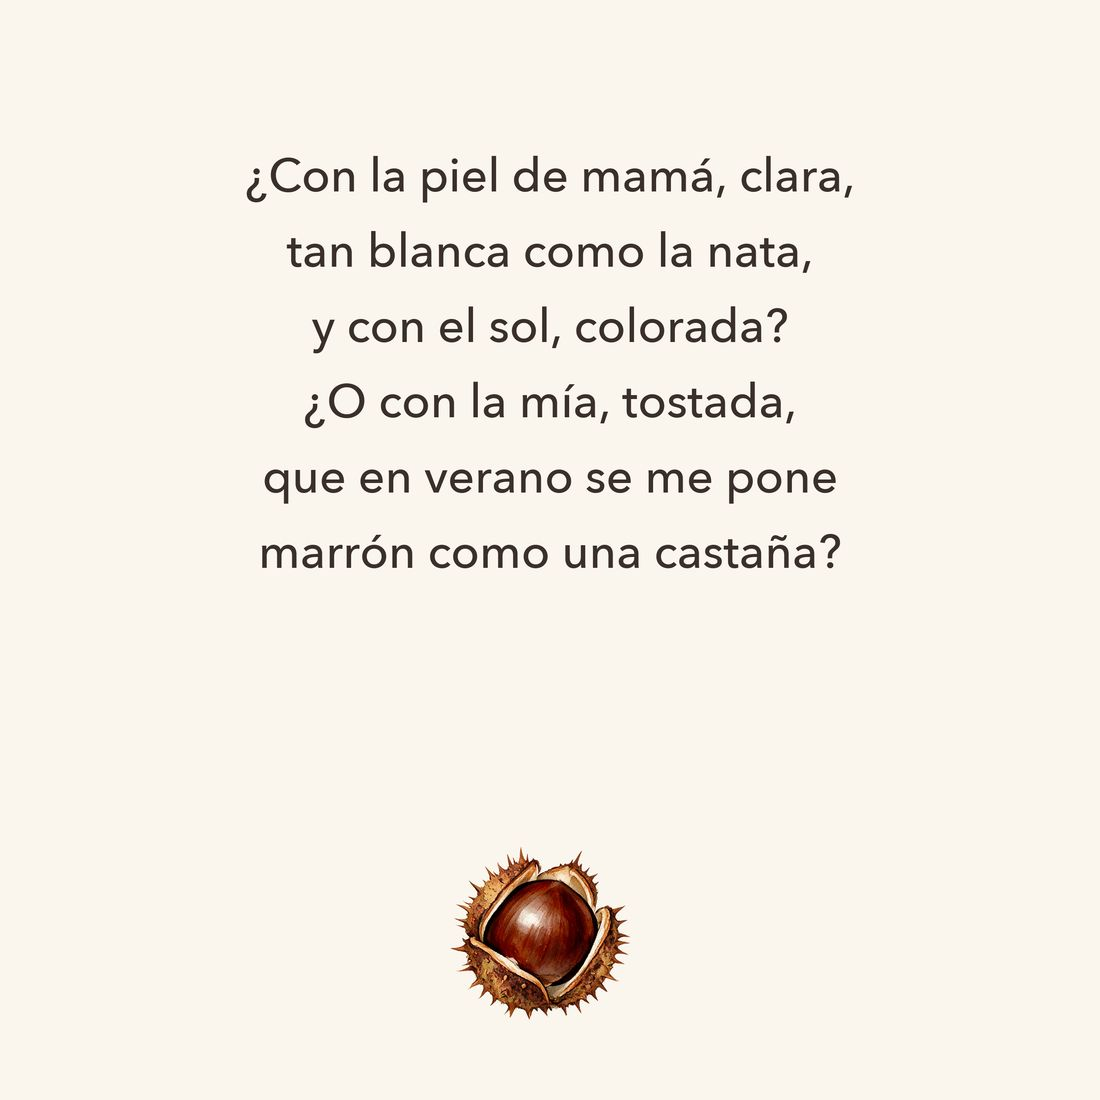
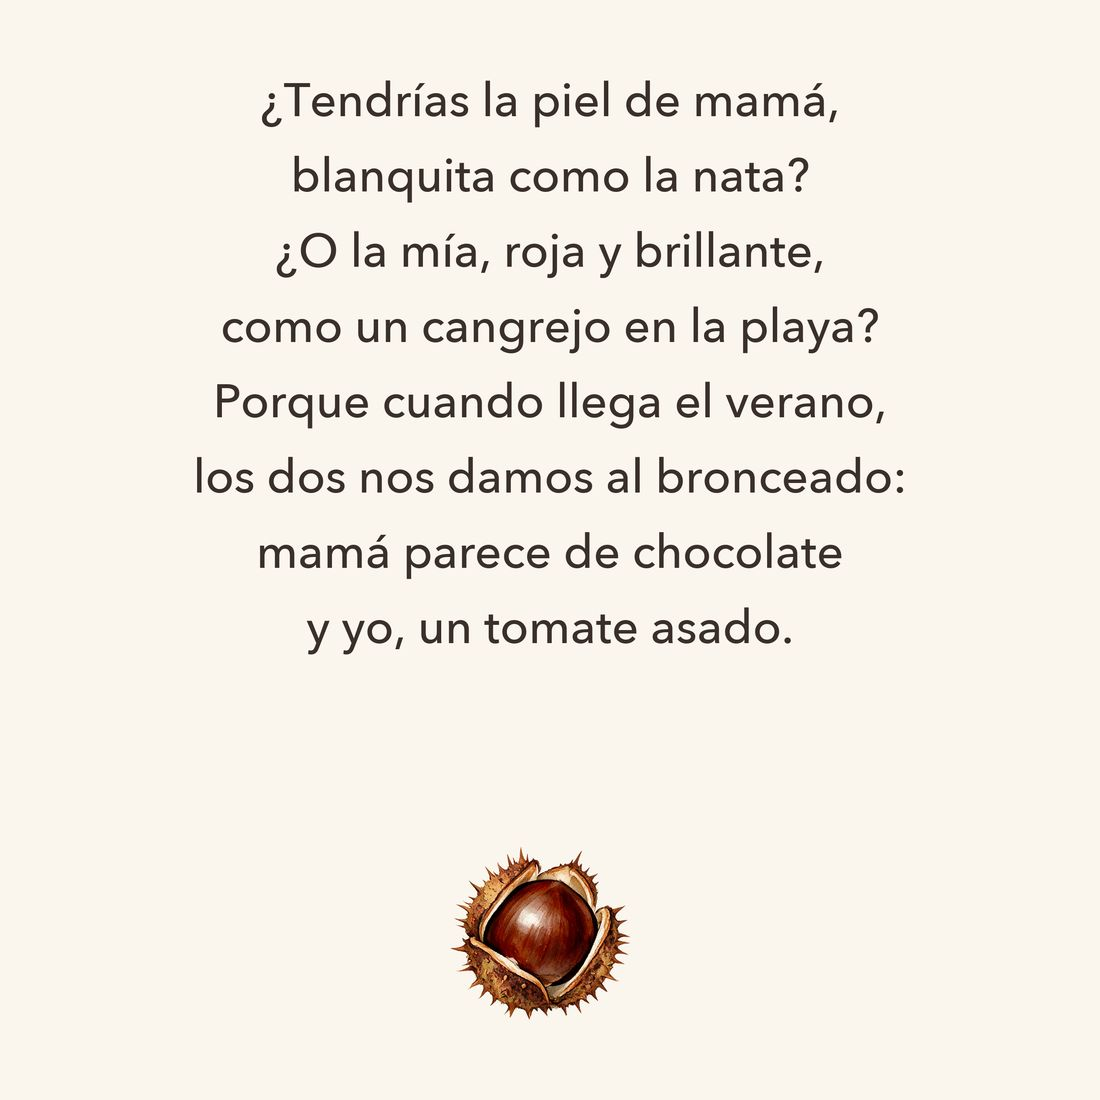
Cuento 2: la piel vuelve a su doble y se restaura la de los despistados
Ademas, cada imagen de la web lleva ya marca de version en la URL:
sin ella el navegador se quedaba con las de la vez anterior.

diff --git a/index.html b/index.html
@@ -92,7 +92,7 @@ button:focus-visible{outline:2px solid #7FB0DC;outline-offset:2px}
 </div>
 
 <script>
-const FUENTES = ["img/p000.jpg", "img/p001.jpg", "img/p002.jpg", "img/p003.jpg", "img/p004.jpg", "img/p005.jpg", "img/p006.jpg", "img/p007.jpg", "img/p008.jpg", "img/p009.jpg", "img/p010.jpg", "img/p011.jpg", "img/p012.jpg", "img/p013.jpg", "img/p014.jpg", "img/p015.jpg", "img/p016.jpg", "img/p017.jpg", "img/p018.jpg", "img/p019.jpg", "img/p020.jpg", "img/p021.jpg", "img/p022.jpg", "img/p023.jpg", "img/p024.jpg", "img/p025.jpg", "img/p026.jpg", "img/p027.jpg", "img/p028.jpg", "img/p029.jpg", "img/p030.jpg", "img/p031.jpg", "img/p032.jpg", "img/p033.jpg", "img/p034.jpg", "img/p035.jpg", "img/p036.jpg", "img/p037.jpg", "img/p038.jpg", "img/p039.jpg", "img/p040.jpg", "img/p041.jpg", "img/p042.jpg", "img/p043.jpg", "img/p044.jpg", "img/p045.jpg", "img/p046.jpg", "img/p047.jpg", "img/p048.jpg", "img/p049.jpg", "img/p050.jpg", "img/p051.jpg", "img/p052.jpg", "img/p053.jpg", "img/p054.jpg", "img/p055.jpg", "img/p056.jpg", "img/p057.jpg", "img/p058.jpg", "img/p059.jpg", "img/p060.jpg", "img/p061.jpg", "img/p062.jpg", "img/p063.jpg", "img/p064.jpg", "img/p065.jpg", "img/p066.jpg", "img/p067.jpg", "img/p068.jpg", "img/p069.jpg", "img/p070.jpg", "img/p071.jpg", "img/p072.jpg", "img/p073.jpg", "img/p074.jpg", "img/p075.jpg", "img/p076.jpg", "img/p077.jpg", "img/p078.jpg", "img/p079.jpg", "img/p080.jpg", "img/p081.jpg", "img/p082.jpg", "img/p083.jpg", "img/p084.jpg", "img/p085.jpg", "img/p086.jpg", "img/p087.jpg", "img/p088.jpg", "img/p089.jpg", "img/p090.jpg", "img/p091.jpg", "img/p092.jpg", "img/p093.jpg", "img/p094.jpg", "img/p095.jpg", "img/p096.jpg", "img/p097.jpg", "img/p098.jpg", "img/p099.jpg", "img/p100.jpg", "img/p101.jpg", "img/p102.jpg", "img/p103.jpg", "img/p104.jpg", "img/p105.jpg", "img/p106.jpg", "img/p107.jpg", "img/p108.jpg", "img/p109.jpg", "img/p110.jpg", "img/p111.jpg", "img/p112.jpg", "img/p113.jpg", "img/p114.jpg", "img/p115.jpg", "img/p116.jpg", "img/p117.jpg", "img/p118.jpg", "img/p119.jpg", "img/p120.jpg", "img/p121.jpg", "img/p122.jpg", "img/p123.jpg", "img/p124.jpg", "img/p125.jpg", "img/p126.jpg", "img/p127.jpg", "img/p128.jpg", "img/p129.jpg", "img/p130.jpg", "img/p131.jpg", "img/p132.jpg", "img/p133.jpg", "img/p134.jpg", "img/p135.jpg", "img/p136.jpg", "img/p137.jpg", "img/p138.jpg", "img/p139.jpg", "img/p140.jpg", "img/p141.jpg", "img/p142.jpg", "img/p143.jpg", "img/p144.jpg", "img/p145.jpg", "img/p146.jpg", "img/p147.jpg", "img/p148.jpg", "img/p149.jpg", "img/p150.jpg", "img/p151.jpg", "img/p152.jpg", "img/p153.jpg", "img/p154.jpg", "img/p155.jpg", "img/p156.jpg", "img/p157.jpg", "img/p158.jpg", "img/p159.jpg", "img/p160.jpg", "img/p161.jpg", "img/p162.jpg", "img/p163.jpg", "img/p164.jpg", "img/p165.jpg", "img/p166.jpg", "img/p167.jpg", "img/p168.jpg", "img/p169.jpg", "img/p170.jpg", "img/p171.jpg", "img/p172.jpg", "img/p173.jpg", "img/p174.jpg", "img/p175.jpg", "img/p176.jpg", "img/p177.jpg", "img/p178.jpg", "img/p179.jpg", "img/p180.jpg", "img/p181.jpg", "img/p182.jpg", "img/p183.jpg", "img/p184.jpg", "img/p185.jpg", "img/p186.jpg", "img/p187.jpg", "img/p188.jpg", "img/p189.jpg", "img/p190.jpg", "img/p191.jpg", "img/p192.jpg", "img/p193.jpg"];
+const FUENTES = ["img/p000.jpg?v=202609081756", "img/p001.jpg?v=202609081756", "img/p002.jpg?v=202609081756", "img/p003.jpg?v=202609081756", "img/p004.jpg?v=202609081756", "img/p005.jpg?v=202609081756", "img/p006.jpg?v=202609081756", "img/p007.jpg?v=202609081756", "img/p008.jpg?v=202609081756", "img/p009.jpg?v=202609081756", "img/p010.jpg?v=202609081756", "img/p011.jpg?v=202609081756", "img/p012.jpg?v=202609081756", "img/p013.jpg?v=202609081756", "img/p014.jpg?v=202609081756", "img/p015.jpg?v=202609081756", "img/p016.jpg?v=202609081756", "img/p017.jpg?v=202609081756", "img/p018.jpg?v=202609081756", "img/p019.jpg?v=202609081756", "img/p020.jpg?v=202609081756", "img/p021.jpg?v=202609081756", "img/p022.jpg?v=202609081756", "img/p023.jpg?v=202609081756", "img/p024.jpg?v=202609081756", "img/p025.jpg?v=202609081756", "img/p026.jpg?v=202609081756", "img/p027.jpg?v=202609081756", "img/p028.jpg?v=202609081756", "img/p029.jpg?v=202609081756", "img/p030.jpg?v=202609081756", "img/p031.jpg?v=202609081756", "img/p032.jpg?v=202609081756", "img/p033.jpg?v=202609081756", "img/p034.jpg?v=202609081756", "img/p035.jpg?v=202609081756", "img/p036.jpg?v=202609081756", "img/p037.jpg?v=202609081756", "img/p038.jpg?v=202609081756", "img/p039.jpg?v=202609081756", "img/p040.jpg?v=202609081756", "img/p041.jpg?v=202609081756", "img/p042.jpg?v=202609081756", "img/p043.jpg?v=202609081756", "img/p044.jpg?v=202609081756", "img/p045.jpg?v=202609081756", "img/p046.jpg?v=202609081756", "img/p047.jpg?v=202609081756", "img/p048.jpg?v=202609081756", "img/p049.jpg?v=202609081756", "img/p050.jpg?v=202609081756", "img/p051.jpg?v=202609081756", "img/p052.jpg?v=202609081756", "img/p053.jpg?v=202609081756", "img/p054.jpg?v=202609081756", "img/p055.jpg?v=202609081756", "img/p056.jpg?v=202609081756", "img/p057.jpg?v=202609081756", "img/p058.jpg?v=202609081756", "img/p059.jpg?v=202609081756", "img/p060.jpg?v=202609081756", "img/p061.jpg?v=202609081756", "img/p062.jpg?v=202609081756", "img/p063.jpg?v=202609081756", "img/p064.jpg?v=202609081756", "img/p065.jpg?v=202609081756", "img/p066.jpg?v=202609081756", "img/p067.jpg?v=202609081756", "img/p068.jpg?v=202609081756", "img/p069.jpg?v=202609081756", "img/p070.jpg?v=202609081756", "img/p071.jpg?v=202609081756", "img/p072.jpg?v=202609081756", "img/p073.jpg?v=202609081756", "img/p074.jpg?v=202609081756", "img/p075.jpg?v=202609081756", "img/p076.jpg?v=202609081756", "img/p077.jpg?v=202609081756", "img/p078.jpg?v=202609081756", "img/p079.jpg?v=202609081756", "img/p080.jpg?v=202609081756", "img/p081.jpg?v=202609081756", "img/p082.jpg?v=202609081756", "img/p083.jpg?v=202609081756", "img/p084.jpg?v=202609081756", "img/p085.jpg?v=202609081756", "img/p086.jpg?v=202609081756", "img/p087.jpg?v=202609081756", "img/p088.jpg?v=202609081756", "img/p089.jpg?v=202609081756", "img/p090.jpg?v=202609081756", "img/p091.jpg?v=202609081756", "img/p092.jpg?v=202609081756", "img/p093.jpg?v=202609081756", "img/p094.jpg?v=202609081756", "img/p095.jpg?v=202609081756", "img/p096.jpg?v=202609081756", "img/p097.jpg?v=202609081756", "img/p098.jpg?v=202609081756", "img/p099.jpg?v=202609081756", "img/p100.jpg?v=202609081756", "img/p101.jpg?v=202609081756", "img/p102.jpg?v=202609081756", "img/p103.jpg?v=202609081756", "img/p104.jpg?v=202609081756", "img/p105.jpg?v=202609081756", "img/p106.jpg?v=202609081756", "img/p107.jpg?v=202609081756", "img/p108.jpg?v=202609081756", "img/p109.jpg?v=202609081756", "img/p110.jpg?v=202609081756", "img/p111.jpg?v=202609081756", "img/p112.jpg?v=202609081756", "img/p113.jpg?v=202609081756", "img/p114.jpg?v=202609081756", "img/p115.jpg?v=202609081756", "img/p116.jpg?v=202609081756", "img/p117.jpg?v=202609081756", "img/p118.jpg?v=202609081756", "img/p119.jpg?v=202609081756", "img/p120.jpg?v=202609081756", "img/p121.jpg?v=202609081756", "img/p122.jpg?v=202609081756", "img/p123.jpg?v=202609081756", "img/p124.jpg?v=202609081756", "img/p125.jpg?v=202609081756", "img/p126.jpg?v=202609081756", "img/p127.jpg?v=202609081756", "img/p128.jpg?v=202609081756", "img/p129.jpg?v=202609081756", "img/p130.jpg?v=202609081756", "img/p131.jpg?v=202609081756", "img/p132.jpg?v=202609081756", "img/p133.jpg?v=202609081756", "img/p134.jpg?v=202609081756", "img/p135.jpg?v=202609081756", "img/p136.jpg?v=202609081756", "img/p137.jpg?v=202609081756", "img/p138.jpg?v=202609081756", "img/p139.jpg?v=202609081756", "img/p140.jpg?v=202609081756", "img/p141.jpg?v=202609081756", "img/p142.jpg?v=202609081756", "img/p143.jpg?v=202609081756", "img/p144.jpg?v=202609081756", "img/p145.jpg?v=202609081756", "img/p146.jpg?v=202609081756", "img/p147.jpg?v=202609081756", "img/p148.jpg?v=202609081756", "img/p149.jpg?v=202609081756", "img/p150.jpg?v=202609081756", "img/p151.jpg?v=202609081756", "img/p152.jpg?v=202609081756", "img/p153.jpg?v=202609081756", "img/p154.jpg?v=202609081756", "img/p155.jpg?v=202609081756", "img/p156.jpg?v=202609081756", "img/p157.jpg?v=202609081756", "img/p158.jpg?v=202609081756", "img/p159.jpg?v=202609081756", "img/p160.jpg?v=202609081756", "img/p161.jpg?v=202609081756", "img/p162.jpg?v=202609081756", "img/p163.jpg?v=202609081756", "img/p164.jpg?v=202609081756", "img/p165.jpg?v=202609081756", "img/p166.jpg?v=202609081756", "img/p167.jpg?v=202609081756", "img/p168.jpg?v=202609081756", "img/p169.jpg?v=202609081756", "img/p170.jpg?v=202609081756", "img/p171.jpg?v=202609081756", "img/p172.jpg?v=202609081756", "img/p173.jpg?v=202609081756", "img/p174.jpg?v=202609081756", "img/p175.jpg?v=202609081756", "img/p176.jpg?v=202609081756", "img/p177.jpg?v=202609081756", "img/p178.jpg?v=202609081756", "img/p179.jpg?v=202609081756", "img/p180.jpg?v=202609081756", "img/p181.jpg?v=202609081756", "img/p182.jpg?v=202609081756", "img/p183.jpg?v=202609081756", "img/p184.jpg?v=202609081756", "img/p185.jpg?v=202609081756", "img/p186.jpg?v=202609081756", "img/p187.jpg?v=202609081756", "img/p188.jpg?v=202609081756", "img/p189.jpg?v=202609081756", "img/p190.jpg?v=202609081756", "img/p191.jpg?v=202609081756", "img/p192.jpg?v=202609081756", "img/p193.jpg?v=202609081756"];
 const AUTONOMA = false;
 const src = i => AUTONOMA ? FUENTES[i] : FUENTES[i];
 
